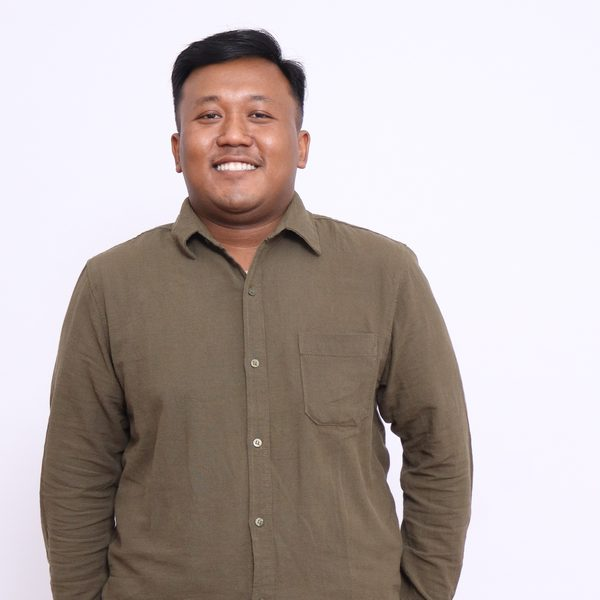
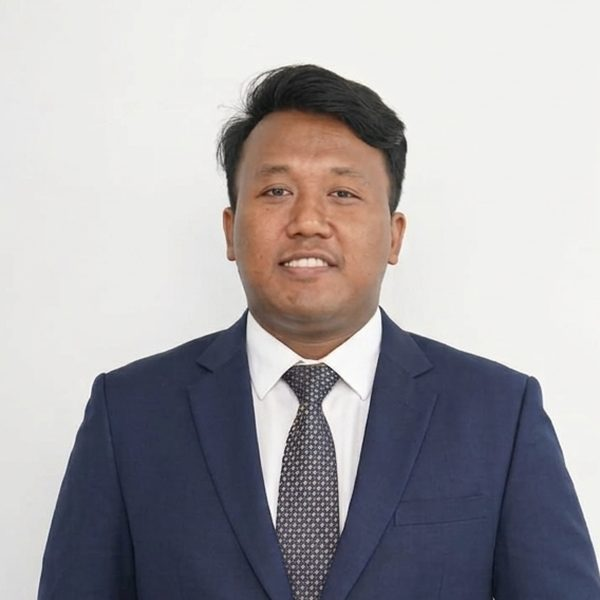
Jasa updatae
Update jasa

diff --git a/jasa/index.html b/jasa/index.html
@@ -9,7 +9,7 @@
 <meta property="og:description" content="Dari catatan di Excel dan chat, jadi aplikasi yang beres. Nota, ongkir kurir, stok gudang, dan otomasi WhatsApp.">
 <meta property="og:image" content="https://itsotnat.github.io/jasa/img/og.jpg">
 <meta name="theme-color" content="#F6F2EA">
-<link rel="icon" href="img/avatar-santai.webp">
+<link rel="icon" href="img/avatar-formal.webp">
 <link rel="preconnect" href="https://fonts.googleapis.com">
 <link rel="preconnect" href="https://fonts.gstatic.com" crossorigin>
 <link href="https://fonts.googleapis.com/css2?family=Plus+Jakarta+Sans:wght@400;500;600;700;800&family=JetBrains+Mono:wght@500&display=swap" rel="stylesheet">
@@ -206,7 +206,7 @@
 
 <nav class="nav" id="nav">
   <div class="wrap">
-    <a class="brand" href="#top"><img src="img/avatar-santai.webp" alt="" width="34" height="34">Hartanto</a>
+    <a class="brand" href="#top"><img src="img/avatar-formal.webp" alt="" width="34" height="34">Hartanto</a>
     <ul>
       <li><a href="#project">Project</a></li>
       <li><a href="#layanan">Layanan</a></li>
@@ -286,7 +286,7 @@
       </article>
 
       <!-- UMKM Titip -->
-      <article class="proj noimg reveal">
+      <article class="proj reveal">
         <div class="body">
           <div class="proj-top">
             <div class="icon" style="background:var(--amber-2);color:var(--amber)">
@@ -309,6 +309,12 @@
           </ul>
           <div class="chips"><span class="chip">Android</span><span class="chip">Offline-first</span><span class="chip">REST API</span><span class="chip">PostgreSQL</span><span class="chip">Docker</span></div>
           <div class="links"><a class="btn btn-dark btn-sm" data-link="umkmtitip" target="_blank" rel="noopener">Kunjungi situs</a></div>
+        </div>
+        <div class="gallery" style="--glow:#F3E3B8">
+          <div class="pair">
+            <div class="phone"><img src="img/umkmtitip-beranda.webp" alt="Beranda UMKM Titip di HP" loading="lazy" width="420" height="952"></div>
+            <div class="phone"><img src="img/umkmtitip-laporan.webp" alt="Laporan per outlet UMKM Titip di HP" loading="lazy" width="420" height="945"></div>
+          </div>
         </div>
       </article>
 
@@ -541,7 +547,7 @@
     <div class="about">
       <div class="txt reveal">
         <div class="me">
-        <img src="img/foto-santai.webp" alt="Foto Hartanto" width="480" height="600" loading="lazy">
+        <img src="img/foto-formal.webp" alt="Foto Hartanto" width="480" height="600" loading="lazy">
         <div>
         <div class="kicker">Tentang</div>
         <h2 style="font-size:clamp(26px,4vw,38px);font-weight:800;margin-bottom:20px">Halo, saya Hartanto</h2>
@@ -570,7 +576,7 @@
 
 <section class="final" id="kontak">
   <div class="wrap reveal">
-    <img src="img/avatar-santai.webp" alt="" width="76" height="76" loading="lazy" style="width:76px;height:76px;border-radius:50%;margin:0 auto 16px;border:3px solid var(--paper);box-shadow:0 0 0 1px var(--line)">
+    <img src="img/avatar-formal.webp" alt="" width="76" height="76" loading="lazy" style="width:76px;height:76px;border-radius:50%;margin:0 auto 16px;border:3px solid var(--paper);box-shadow:0 0 0 1px var(--line)">
     <div class="kicker">Mulai dari obrolan</div>
     <h2>Ada pekerjaan di usaha kakak yang masih manual?</h2>
     <p>Ceritakan alurnya lewat WhatsApp. Saya bantu lihat bagian mana yang bisa dibuat otomatis, dan kira-kira berapa biayanya.</p>
